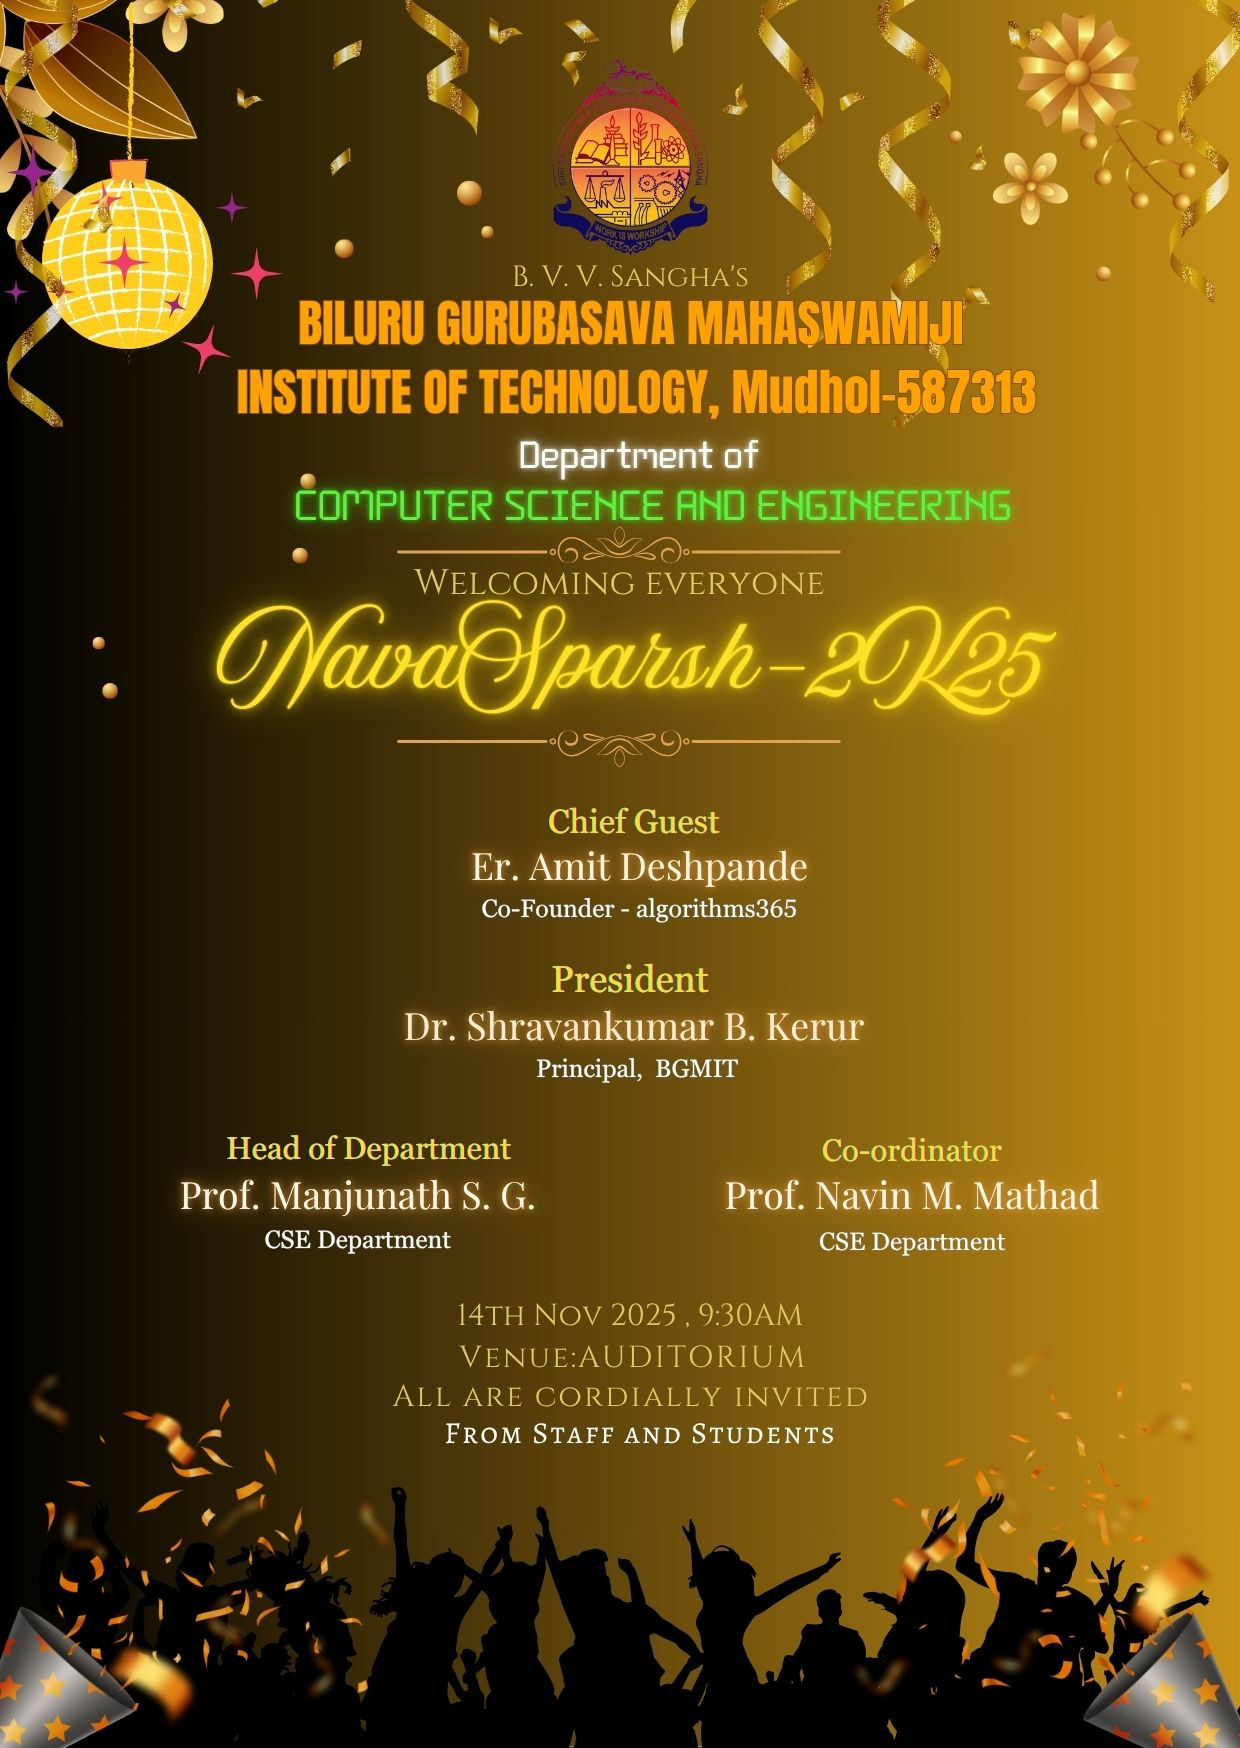
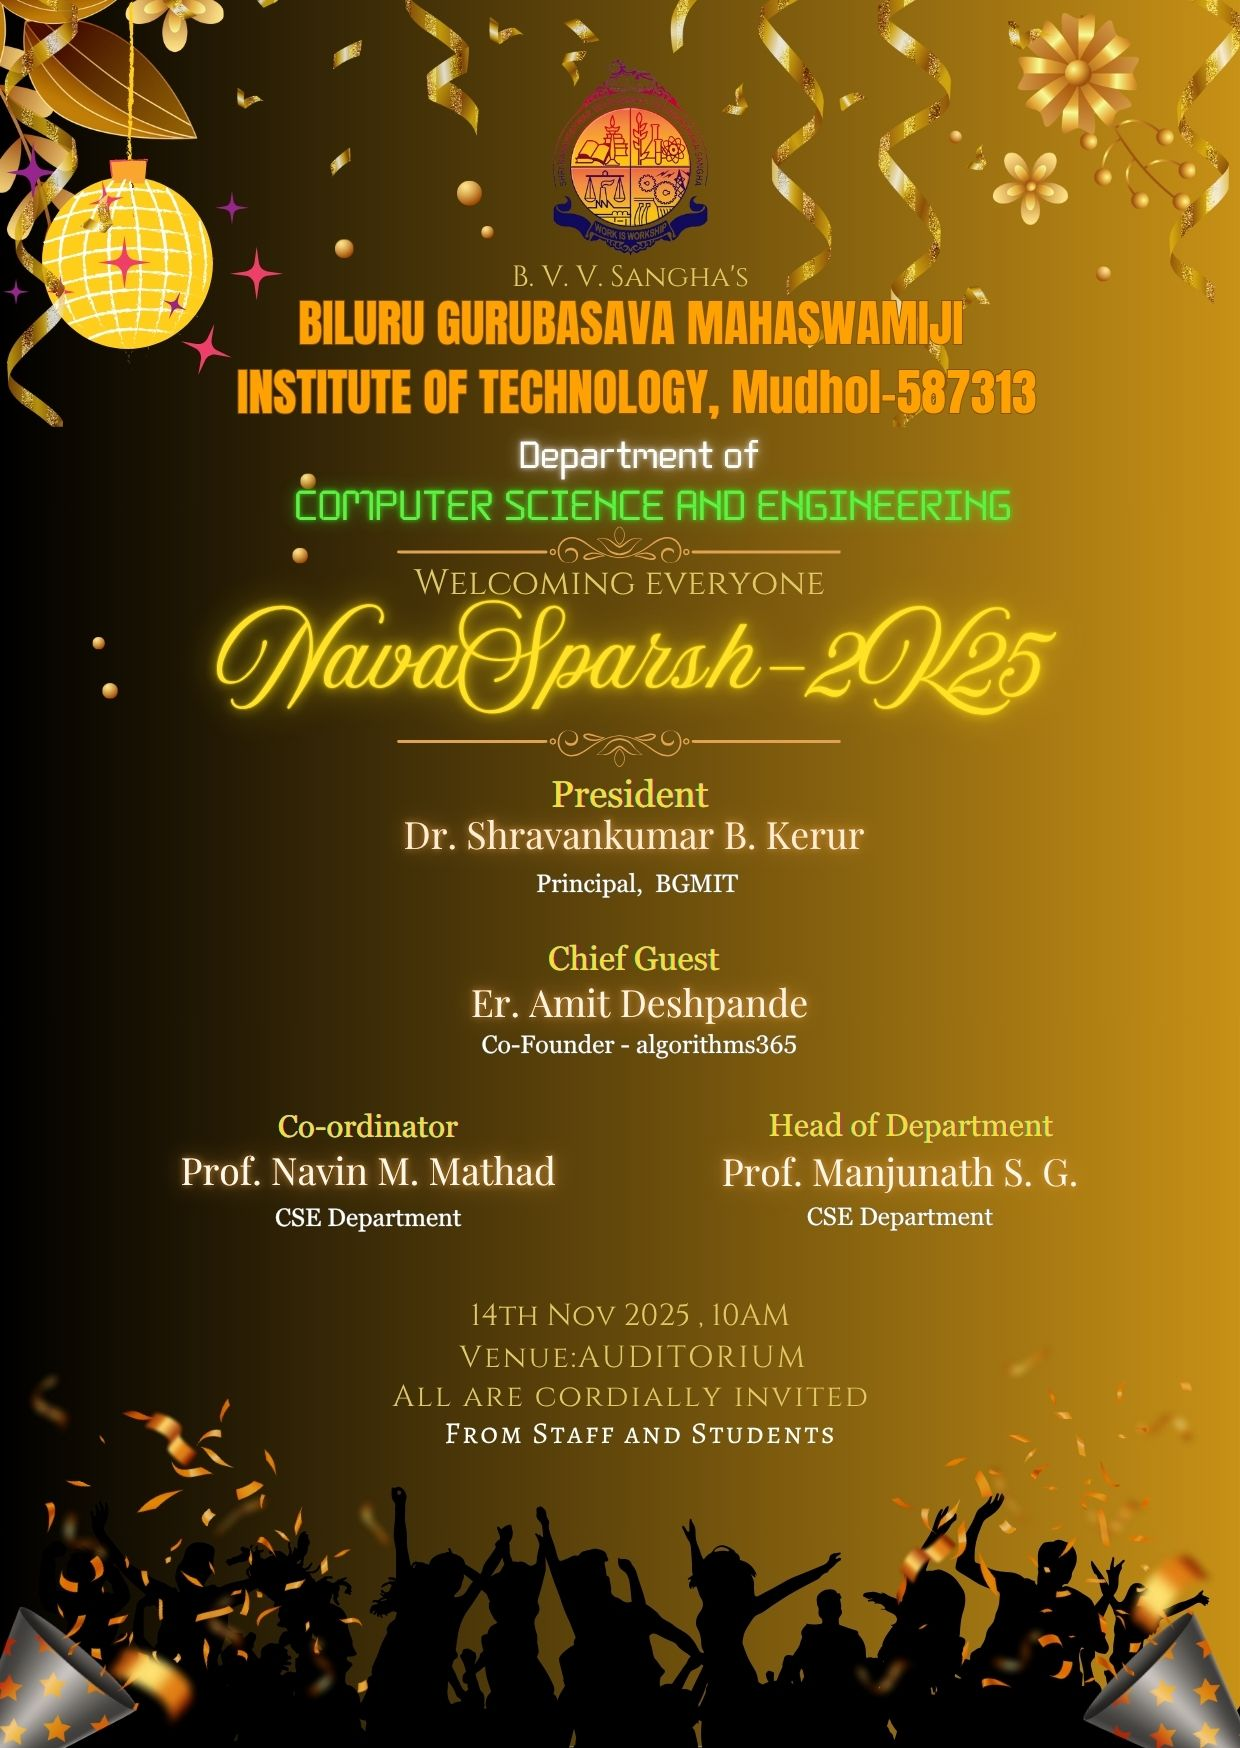
Update event time to 10:00 AM in configuration and EventDetails component

Changed region(s): [[0.1226, 0.4325, 0.8887, 0.7414], [0.429, 0.7414, 0.6435, 0.7723], [0.3677, 0.7414, 0.3984, 0.7723]]

diff --git a/src/components/EventDetails.tsx b/src/components/EventDetails.tsx
@@ -18,7 +18,7 @@ const EventDetails = () => {
     {
       icon: <Clock className="w-8 h-8" />,
       title: 'Time',
-      info: '9:00 AM Onwards',
+      info: '10:00 AM Onwards',
       description: 'Make sure to arrive on time!',
     },
     {
